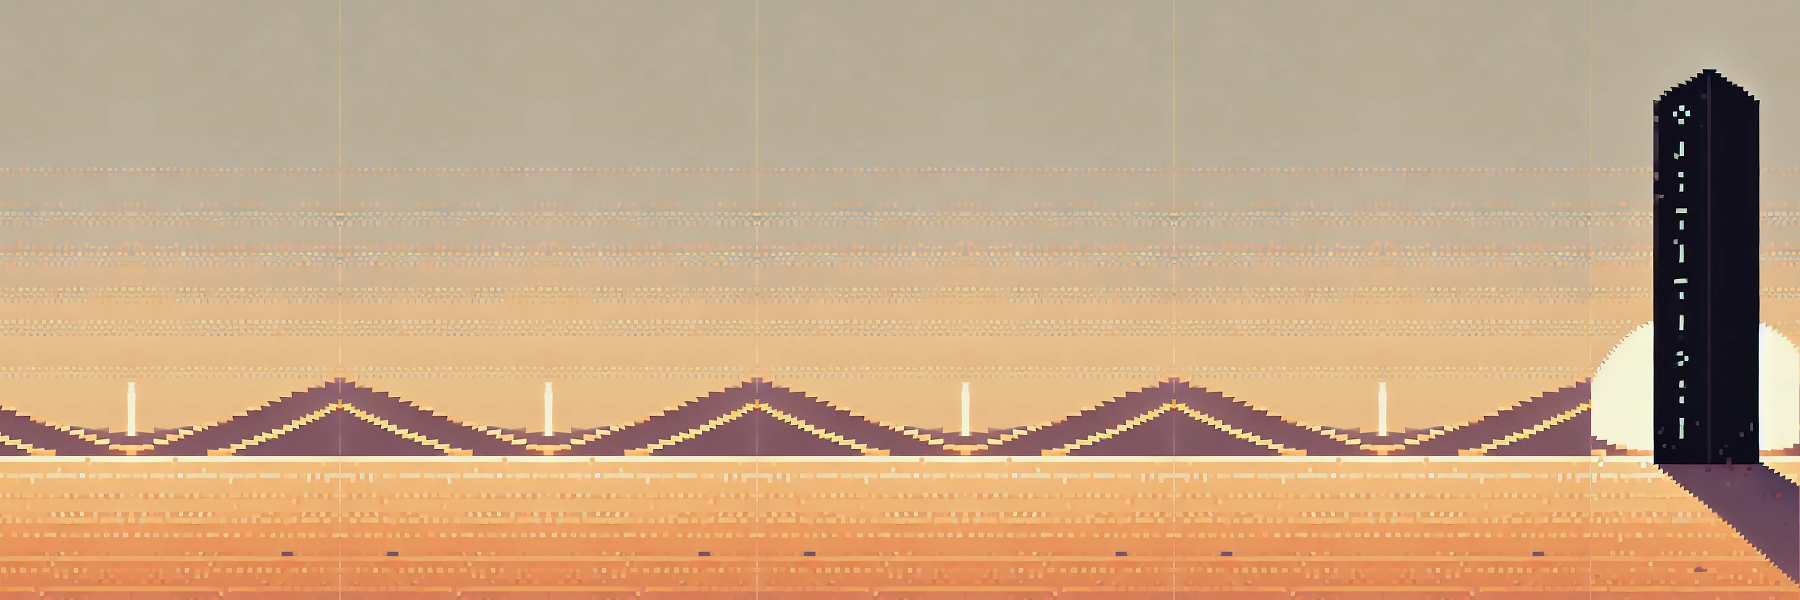
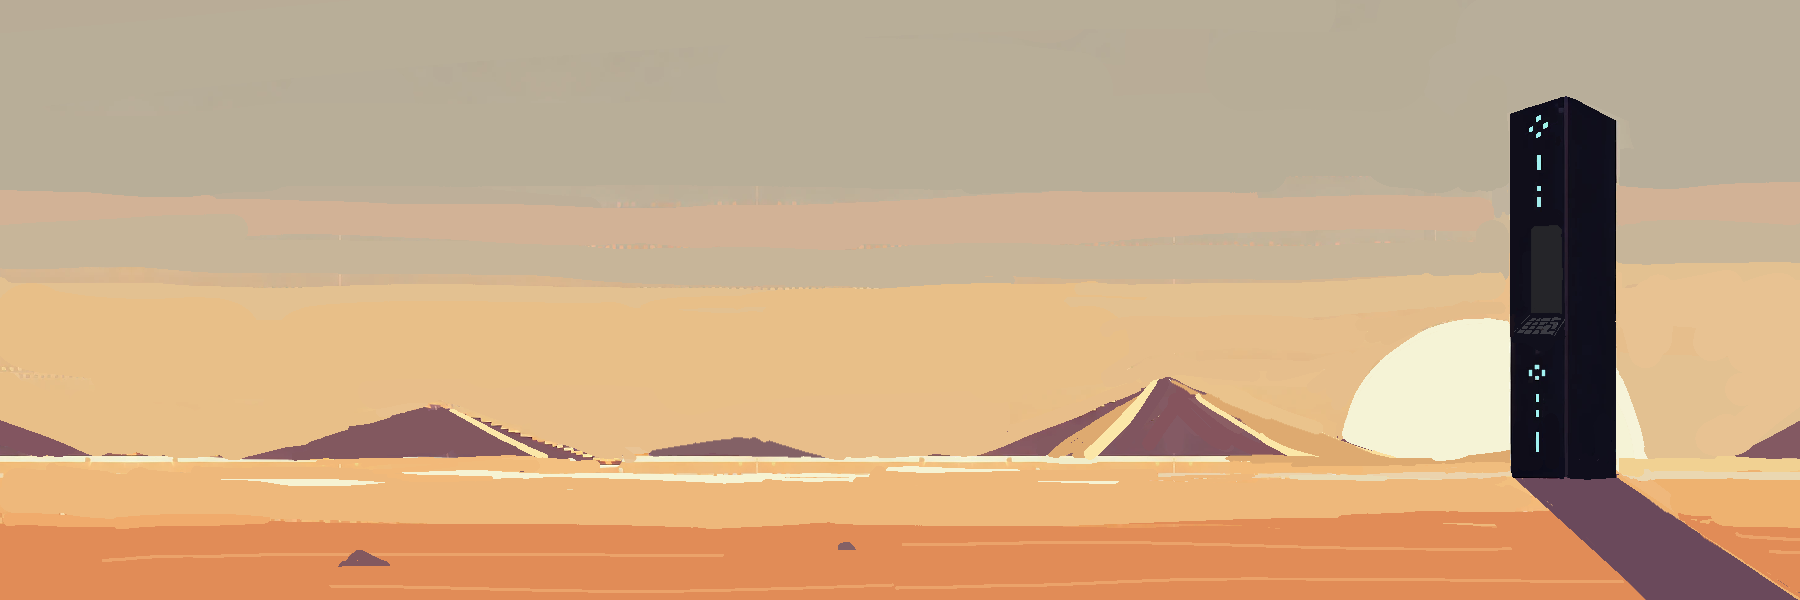
背景・キャラを自作のものに変更し、ジャンプ操作を削除

diff --git a/final-assingnment/ai-chat-game-clock/src/app/Scroll2dGameScreen.tsx b/final-assingnment/ai-chat-game-clock/src/app/Scroll2dGameScreen.tsx
@@ -23,7 +23,6 @@ export default function Scroll2dGameScreen({
         keys!: {
           A: Phaser.Input.Keyboard.Key;
           D: Phaser.Input.Keyboard.Key;
-          W: Phaser.Input.Keyboard.Key;
         };
         wasdText!: Phaser.GameObjects.Text;
         enterText!: Phaser.GameObjects.Text;
@@ -36,66 +35,65 @@ export default function Scroll2dGameScreen({
         // 画像の読み込み
         preload() {
           this.load.image("background", "/images/desert.png");
-          this.load.image("player", "/images/player.png");
+          this.load.image("player_r_1", "/images/player_r_1.png"); // 立ち
+          this.load.image("player_r_2", "/images/player_r_2.png"); // 歩き1
+          this.load.image("player_r_3", "/images/player_r_3.png"); // 歩き2
         }
 
         create() {
-          // 背景を画面左上に配置し、サイズを設定
+          // 背景を設定
           this.background = this.add.image(0, 0, "background");
           this.background.setOrigin(0, 0);
           this.background.setDisplaySize(1800, 600);
 
-          // 地面を背景画像の水平線に合わせて配置
-          const groundY = 500; // 地面のY座標を調整
+          // 地面の設定
+          const groundY = 520; // 地面のY座標
           this.ground = this.add.rectangle(0, groundY, 5000, 10, 0x000000, 0);
           this.physics.add.existing(this.ground, true);
 
-          // プレイヤーを適切な位置に配置
+          // プレイヤーの設定
           this.player = this.physics.add
-            .sprite(200, groundY - 105, "player")
+            .sprite(200, groundY - 155, "player_r_1")
             .setScale(1);
           this.player.setCollideWorldBounds(true);
-
-          // プレイヤーと地面の衝突を設定
           this.physics.add.collider(this.player, this.ground);
 
-          // カメラの設定（背景サイズに合わせる）
-          this.cameras.main.setBounds(0, 0, 1800, 600);
-          this.cameras.main.startFollow(this.player, true, 0.1, 0.1);
+          // **アニメーションの作成**
+          this.anims.create({
+            key: "walk",
+            frames: [{ key: "player_r_2" }, { key: "player_r_3" }],
+            frameRate: 6, // 1秒間に6フレーム
+            repeat: -1, // 無限ループ
+          });
 
-          // キー入力設定（WASD対応）
+          // **キー入力の設定（A, D のみ）**
           this.keys = {
             A: this.input.keyboard!.addKey(Phaser.Input.Keyboard.KeyCodes.A),
             D: this.input.keyboard!.addKey(Phaser.Input.Keyboard.KeyCodes.D),
-            W: this.input.keyboard!.addKey(Phaser.Input.Keyboard.KeyCodes.W),
           };
 
-          // WASDで操作できることを画面隅に表示
-          this.wasdText = this.add.text(
-            10,
-            10,
-            "【操作】A/D: 移動, W: ジャンプ",
-            {
-              font: "16px Arial",
-            }
-          );
+          // WASD説明テキスト
+          this.wasdText = this.add.text(10, 10, "【操作】A/D: 移動", {
+            font: "16px Arial",
+          });
           this.wasdText.setScrollFactor(0);
 
-          // Enterキーのプロンプトを非表示で作成
+          // Enterキーのプロンプト（非表示）
           this.enterTextBackground = this.add.graphics();
           this.enterTextBackground.fillStyle(0xffffff, 1);
           this.enterTextBackground.fillRoundedRect(1600, 30, 200, 50, 15);
           this.enterTextBackground.setVisible(false);
 
-          this.enterText = this.add.text(1700, 40, "Press Enter", {
+          this.enterText = this.add.text(1567, 40, "Press Enter", {
             font: "24px Arial",
           });
           this.enterText.setOrigin(0.5);
           this.enterText.setVisible(false);
-          // アニメーションを追加
+
+          // Enterキーの点滅アニメーション
           this.tweens.add({
             targets: [this.enterText, this.enterTextBackground],
-            y: "+=10", // 10ピクセル上下に移動
+            y: "+=10",
             yoyo: true,
             repeat: -1,
             ease: "Sine.easeInOut",
@@ -106,22 +104,22 @@ export default function Scroll2dGameScreen({
         update() {
           if (!this.player) return;
 
-          // 左右移動
+          // **移動処理**
           if (this.keys.A.isDown) {
             this.player.setVelocityX(-240);
+            this.player.play("walk", true);
+            this.player.setFlipX(true); // 左向き
           } else if (this.keys.D.isDown) {
             this.player.setVelocityX(240);
+            this.player.play("walk", true);
+            this.player.setFlipX(false); // 右向き
           } else {
             this.player.setVelocityX(0);
+            this.player.setTexture("player_r_1"); // 静止状態
           }
 
-          // ジャンプ
-          if (this.keys.W.isDown && this.player.body?.blocked.down) {
-            this.player.setVelocityY(-300);
-          }
-
-          // モノリスの前で Enter を押すと画面遷移
-          if (this.player.x > 1550) {
+          // **モノリスの前で Enter を押すと画面遷移**
+          if (this.player.x > 1350) {
             this.enterText.setVisible(true);
             this.input.keyboard!.on("keydown-ENTER", () => onEnterPress());
           } else {
@@ -129,6 +127,7 @@ export default function Scroll2dGameScreen({
           }
         }
       }
+
       const config: Phaser.Types.Core.GameConfig = {
         type: Phaser.AUTO,
         width: 1800,

diff --git a/final-assingnment/ai-chat-game-clock/src/app/page.tsx b/final-assingnment/ai-chat-game-clock/src/app/page.tsx
@@ -5,16 +5,22 @@ import StartPopup from "./StartPopup";
 import Scroll2dGameScreen from "./Scroll2dGameScreen";
 import Chat from "./Chat";
 import ClearPopup from "./ClearPopup";
+import { useRouter } from "next/navigation";
 
 export default function Page() {
   const [hasStarted, setHasStarted] = useState(false);
   const [hasEnteredMonolith, setHasEnteredMonolith] = useState(false);
   const [gameCleared, setGameCleared] = useState(false);
+  const router = useRouter();
 
-  const backToStart = () => {
+  // **最初からやり直す**
+  const restartGame = () => {
     setHasStarted(false);
     setHasEnteredMonolith(false);
     setGameCleared(false);
+
+    // ページを完全リロードして状態をリセットする（Next.js の場合）
+    router.refresh(); // または `window.location.reload();`
   };
 
   return (
@@ -34,7 +40,7 @@ export default function Page() {
         <Chat onClear={(): void => setGameCleared(true)} />
       ) : (
         // クリア時のポップアップ
-        <ClearPopup onClose={() => backToStart()} />
+        <ClearPopup onClose={restartGame} />
       )}
     </div>
   );
